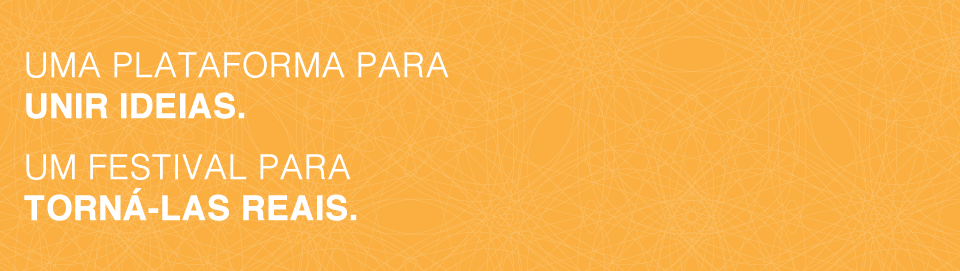
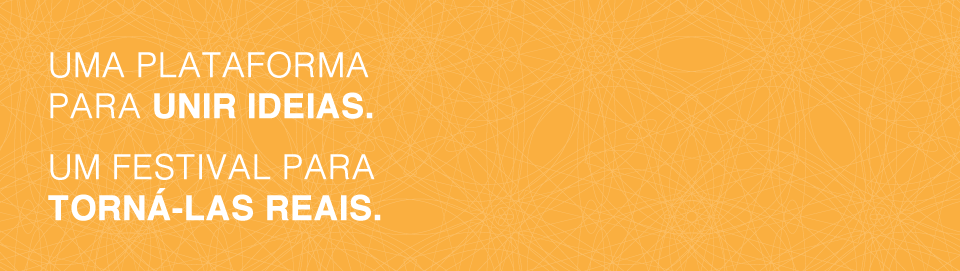
some layout alterations

Changed region(s): [[0.0, 0.5609, 0.4062, 0.8266], [0.0, 0.1771, 0.4688, 0.2952], [0.0, 0.3247, 0.4062, 0.4428]]

diff --git a/app/assets/stylesheets/miv/index.css.sass b/app/assets/stylesheets/miv/index.css.sass
@@ -3,7 +3,7 @@
 body
   background:
     color: #F1F1F1
-    image: url(asset_path("background.png", "image"))
+    image: url(asset_path("tile.gif", "image"))
   color: #111
   font-family: "Helvetica Regular", Arial, sans-serif
   font-size: 13px
@@ -12,9 +12,6 @@ body
 
 h1, h2, h3, h4, h5, h6
   margin-bottom: 10px
-
-h1, h2
-  font-family: "Helvetica-bold", Helvetica, Arial, sans-serif
 
 h1
   font-size: 2.1em
@@ -130,6 +127,7 @@ article, .page_body
 
 
 // GENERAL CLASSES
+
 .wrapper
   +grid-container
   position: relative
@@ -191,11 +189,11 @@ article, .page_body
 // * different headings
 
 h2.info
-  font-size: 1.3em
+  font-family: 'Droid Serif', serif
+  font-size: 1em
   margin-bottom: 20px
   line-height: 1.4em
   color: #666
-  font-family: "Gill Sans", sans-serif
   font-weight: lighter
   padding-top: 5px
   border-top: 1px solid #B0B0B0
@@ -205,9 +203,7 @@ h2.info
 
 // HEADER
 header.main
-  border-bottom: 5px solid #FFF
-  border-top: 3px solid #333
-  margin-bottom: 20px
+  border-bottom: 5px solid $orange
   height: 103px
   background:
     color: rgba(255, 255, 255, 0.8)

diff --git a/app/assets/stylesheets/idea.css.sass b/app/assets/stylesheets/idea.css.sass
@@ -9,7 +9,6 @@
     .idea_stats
       color: #666
       span
-        font-family: "Gill Sans", sans-serif
         font-weight: lighter
         font-size: 1.1em
   .utils
